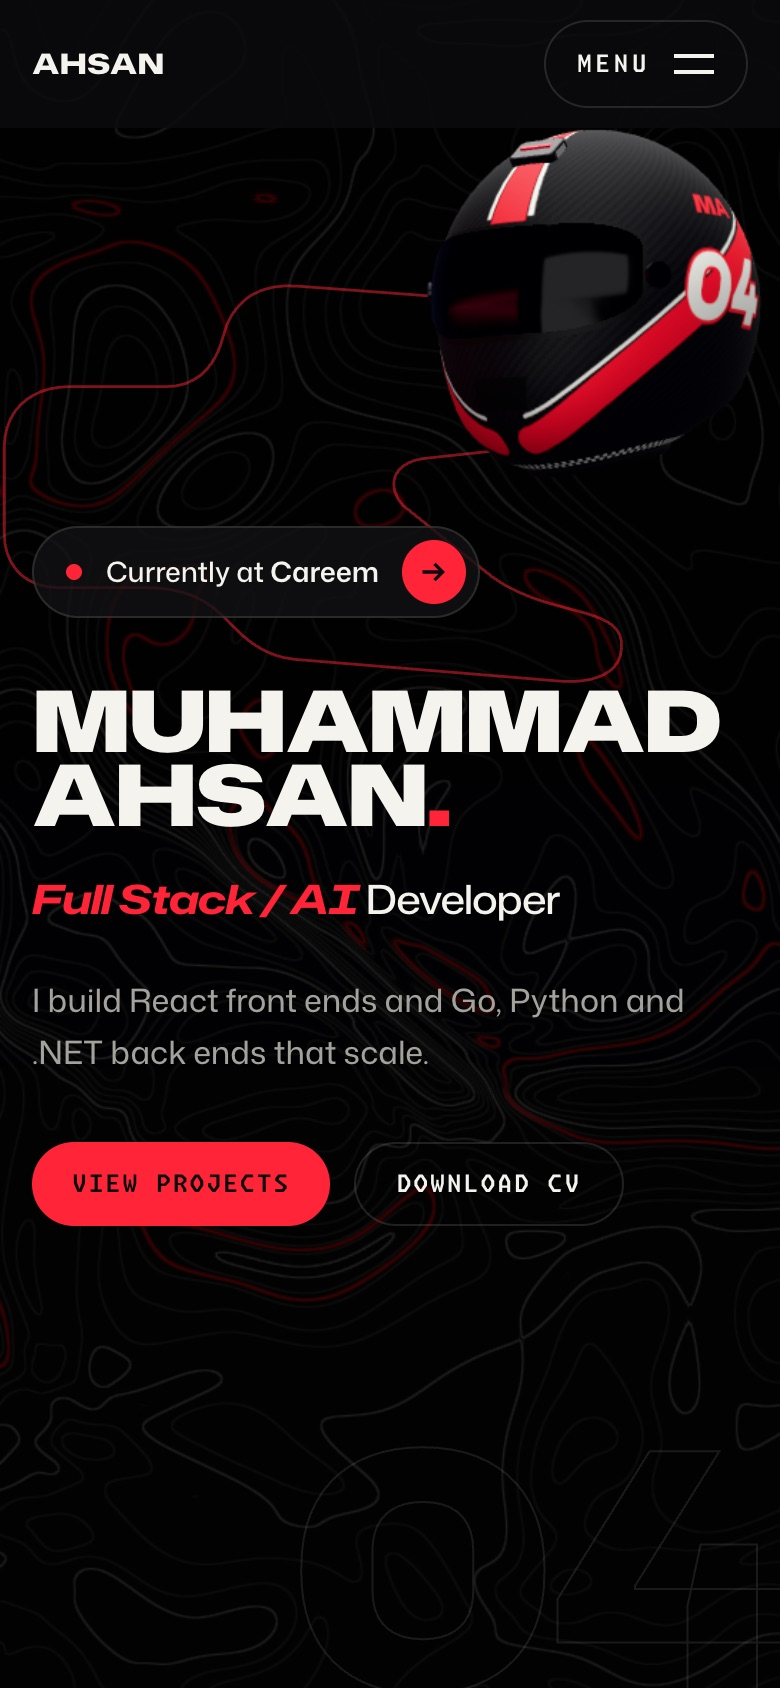
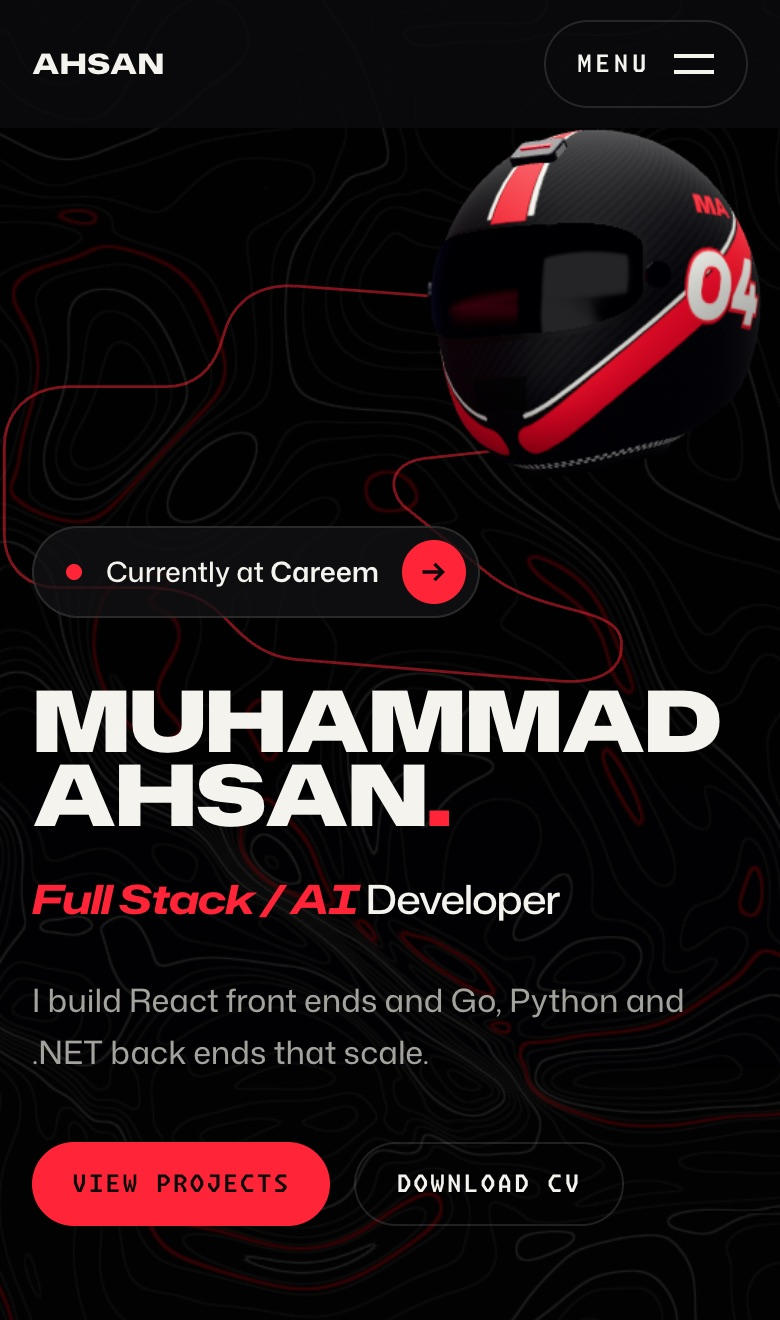
README: finish and phone side by side at the same height
The phone shot, centred under the finish and taller than it, made the finish
look small. The phone shot is now cropped to the hero (780x1320), and the two
sit in one row at the same height: the finish 600 px wide, the phone 222.

diff --git a/README.md b/README.md
@@ -21,14 +21,14 @@ see a plain developer portfolio. The look takes cues from landonorris.com.
 | --- | --- |
 | ![The 3D circuit seen from above, the car in sector 3, Careem painted on the run-off and its card](docs/screenshots/lap.jpg) | ![A project card playing an SVG scene of the AI agent platform](docs/screenshots/projects.jpg) |
 
-**The finish:** the last screen is a card in a red frame, with the helmet parked in it and
-your lap time in the tab at the top.
+**The finish** (left): the last screen is a card in a red frame, with the helmet parked in it
+and your lap time in the tab at the top. **On a phone** (right): the same page, with the helmet
+above the name.
 
-![The finish card: "Let's build something fast.", the parked helmet and the lap time](docs/screenshots/finish.jpg)
-
-**On a phone:** the same page, with the helmet above the name.
-
-<p align="center"><img src="docs/screenshots/phone.jpg" width="300" alt="The hero on a phone: the helmet above the name, the title and the two buttons"></p>
+<p align="center">
+  <img src="docs/screenshots/finish.jpg" width="600" alt="The finish card: &quot;Let's build something fast.&quot;, the parked helmet and the lap time">
+  <img src="docs/screenshots/phone.jpg" width="222" alt="The hero on a phone: the helmet above the name, the title and the two buttons">
+</p>
 
 ## Design decisions
 
